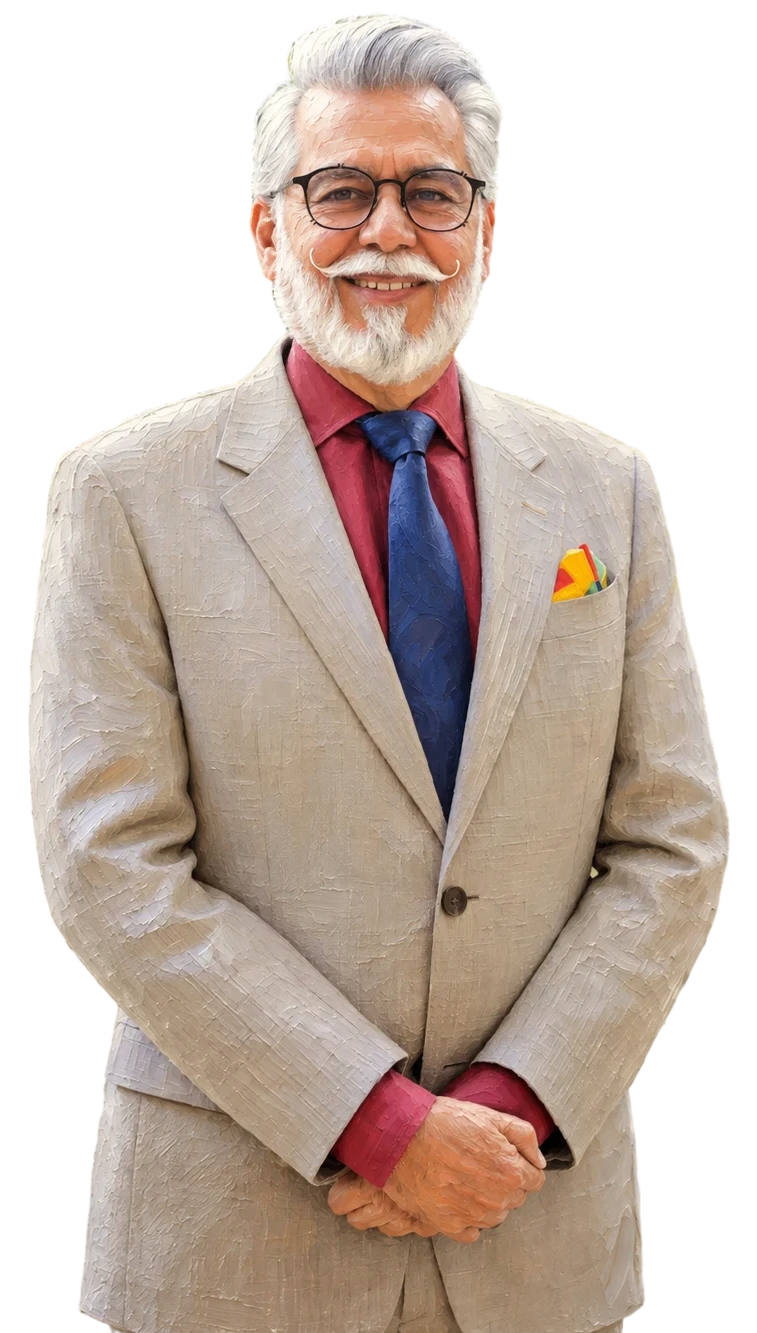
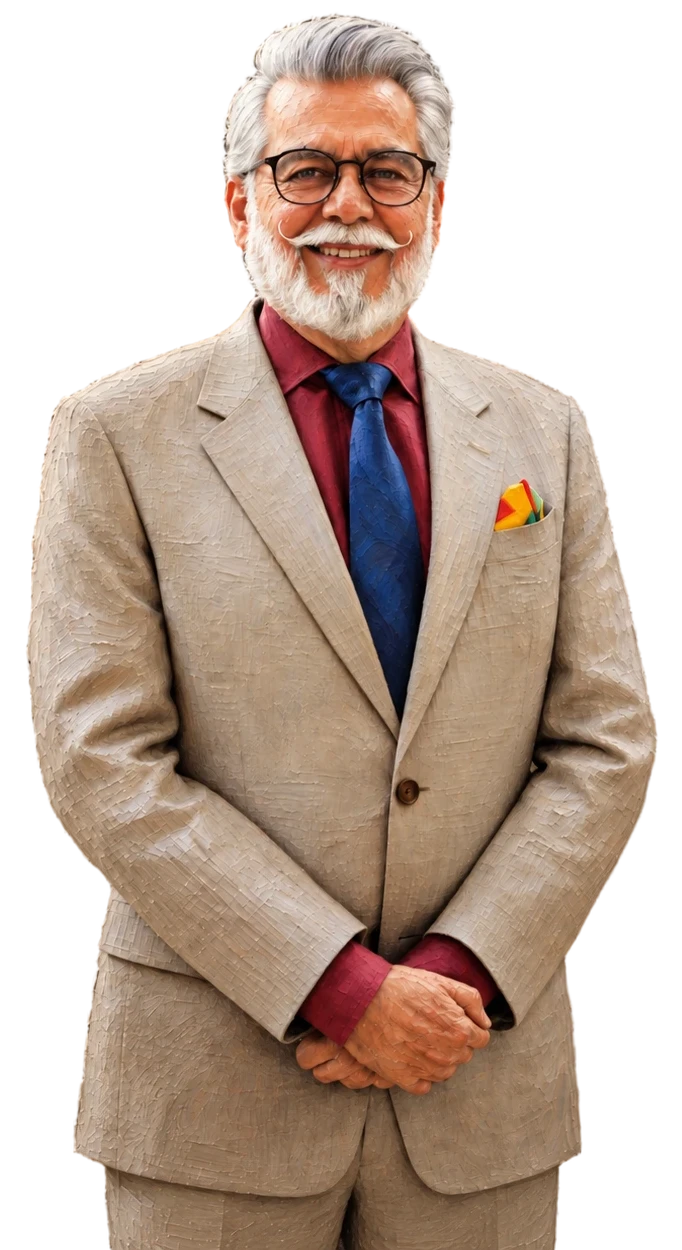
Hero: the new portrait against navy and copper brushwork, at full vibrancy
Only he is made of words (face and folded hands in finer words); the painting behind him is shown at its own strength, a little brightened and richer, with the natural fade.

Claude-Session: https://claude.ai/code/session_011tDJ4uajGqNBzUiiqwHwYC

diff --git a/js/data.js b/js/data.js
@@ -68,10 +68,10 @@ window.FACETS = [
 
 // The opening and closing portrait: the studio photograph, warm grey ink
 // the opening portrait: a painting of him in a grey suit, set in words like the painted facets
[1 lines of base64/hex data omitted]
-  artScene: { paint: true, natural: true, sat: 0.8, dim: 0.62, src: 'assets/hero-portrait-scene.jpg', x: -0.2351, y: -0.0518, w: 1.4822, h: 1.0518 },   // kept quiet: this screen carries the call to write
[1 lines of base64/hex data omitted]
+  artScene: { paint: true, natural: true, sat: 1.2, bright: 1.16, src: 'assets/hero-portrait-scene.jpg', x: -0.3607, y: -0.0504, w: 1.7566, h: 1.0504 },
   artRows: 150, artRowsMobile: 104, artFade: 0.88, artFaceScale: 0.45, feature: [],
-  artHeads: [[0.498, 0.155, 0.165, 0.131], [0.573, 0.865, 0.152, 0.064]] };   // his face and folded hands in finer words
+  artHeads: [[0.501, 0.15, 0.188, 0.14], [0.578, 0.826, 0.169, 0.064]] };   // his face and folded hands in finer words   // his face and folded hands in finer words
 // the closing portrait: him with folded hands against the blue brushwork; only he is made of words, the painting behind him
[1 lines of base64/hex data omitted]
   artScene: { paint: true, natural: true, sat: 1.35, bright: 1.12, src: 'assets/final-portrait-scene.jpg', x: -0.0939, y: -0.1082, w: 1.1584, h: 1.1082 },
